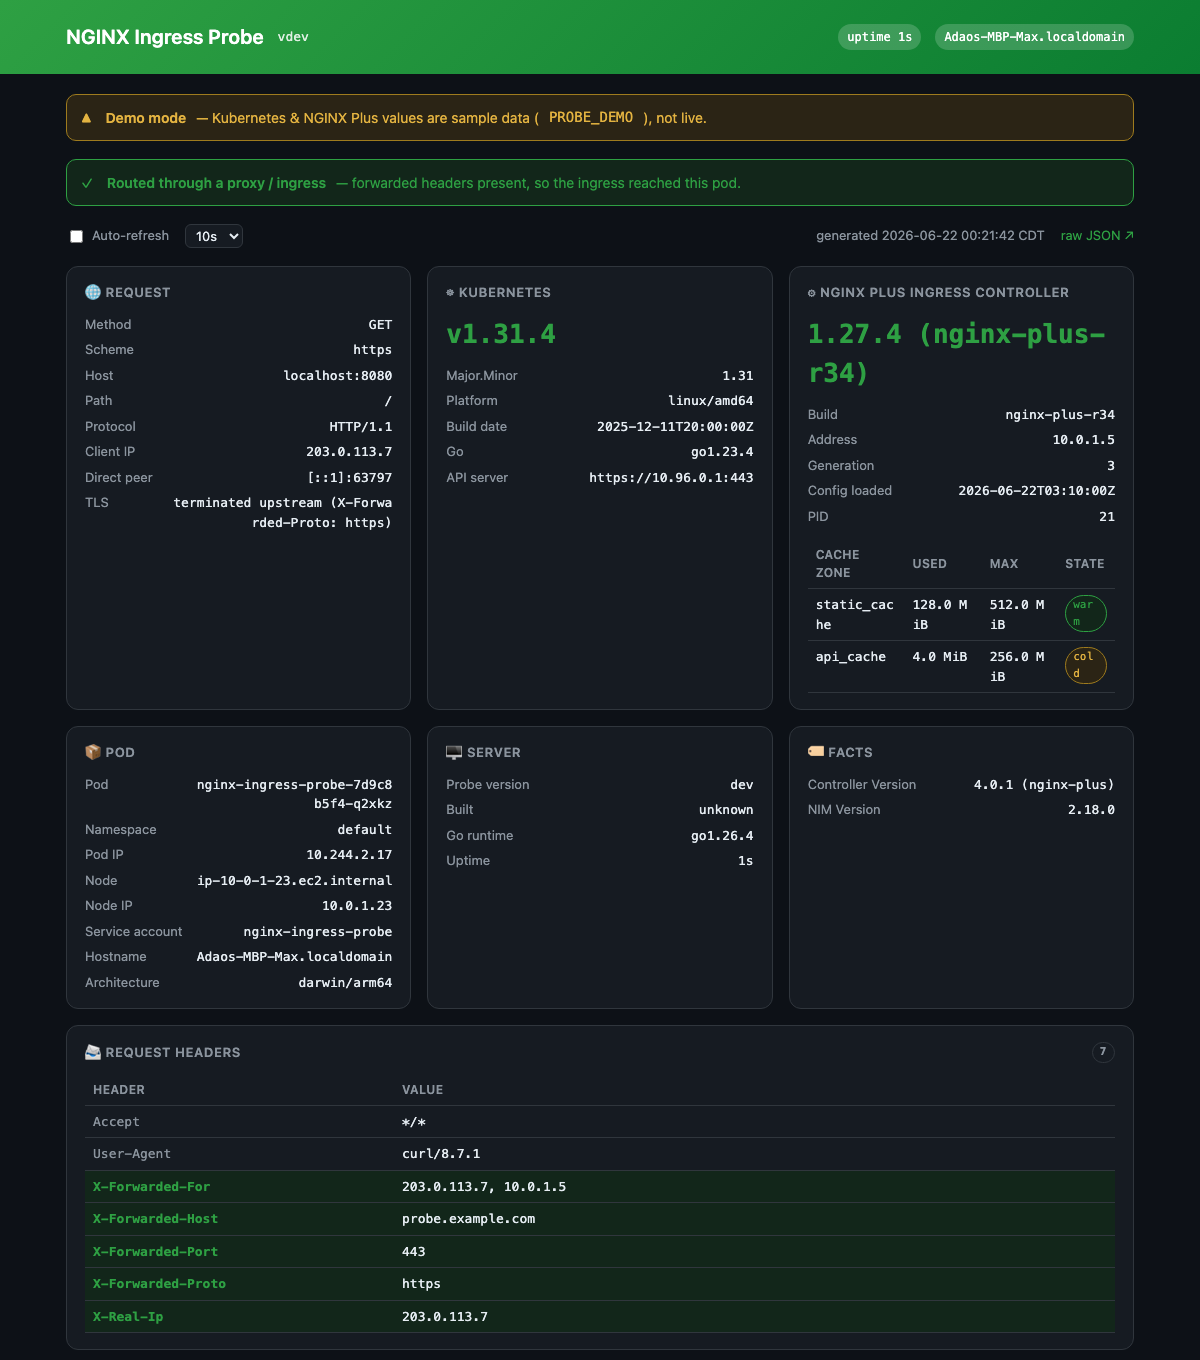
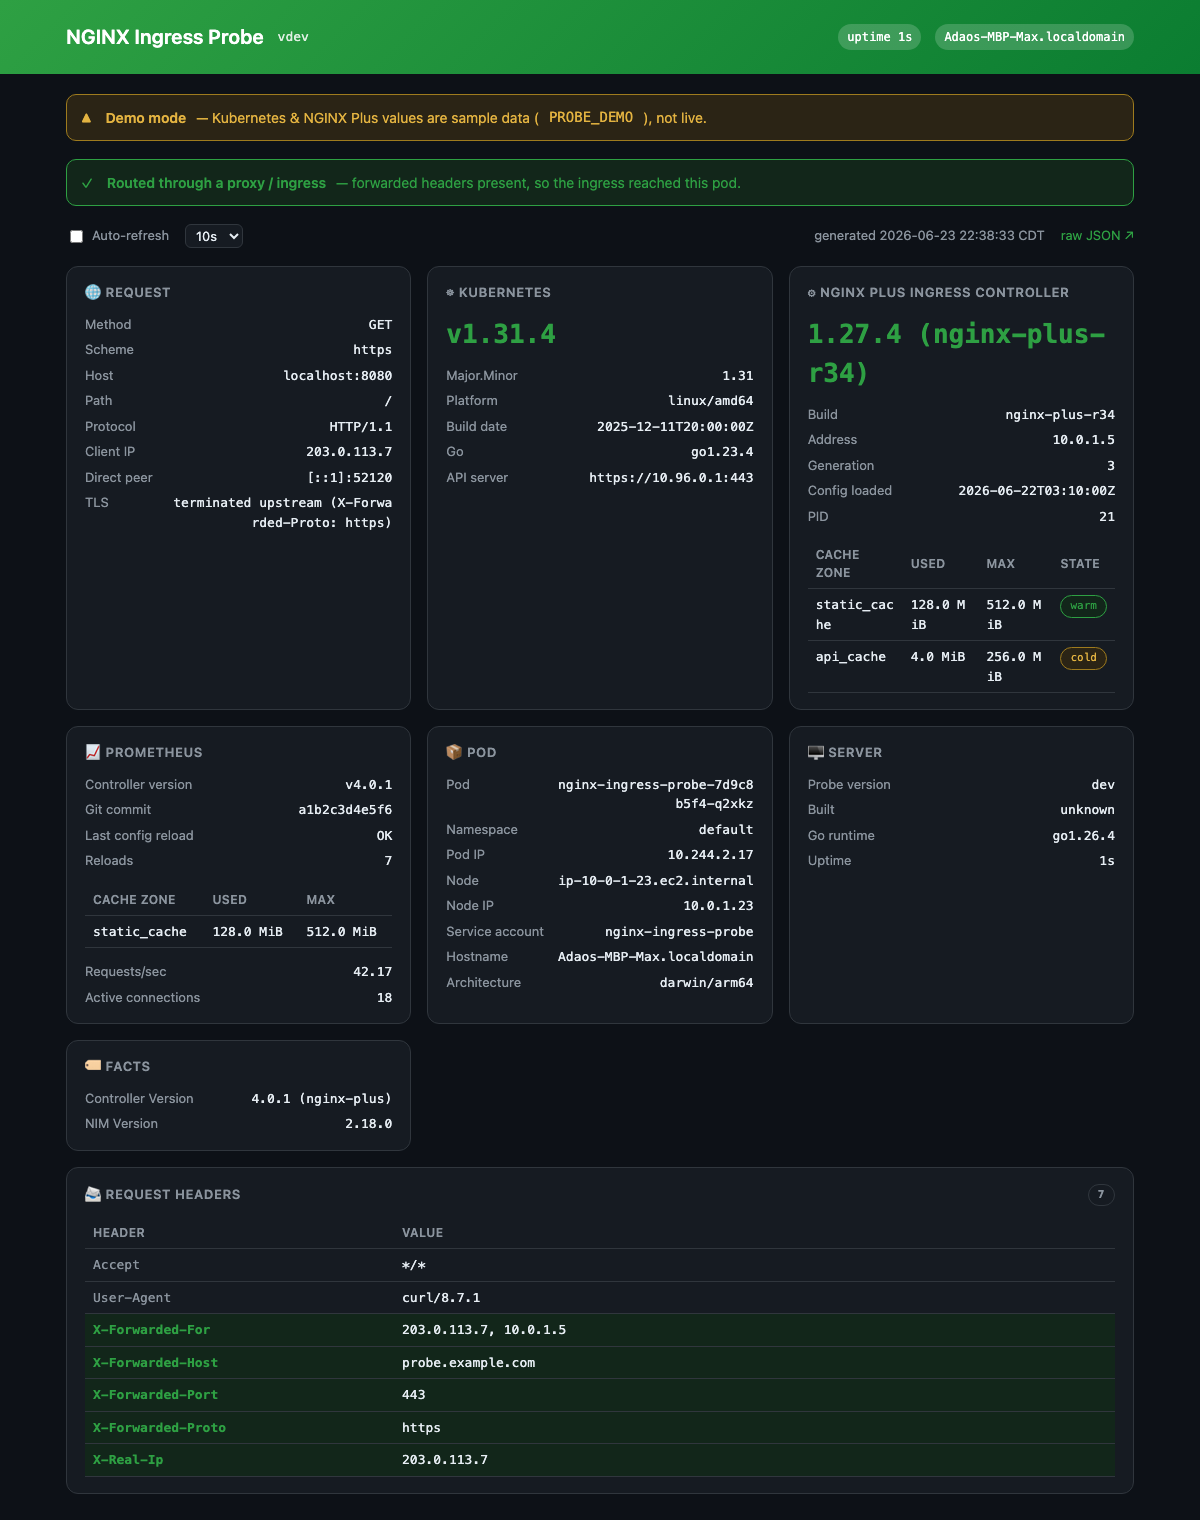
feat: add a Prometheus card; fix cache-state pill wrapping
- Prometheus card (optional PROMETHEUS_URL, no RBAC): controller version + git
  commit, last config-reload status, cache zone sizes, and request rate / connections
- cache-zone STATE pills (warm/cold) no longer wrap (white-space:nowrap + roomier padding)
- deployment + README document PROMETHEUS_URL / PROMETHEUS_TOKEN / PROMETHEUS_INSECURE
- refresh screenshot

diff --git a/templates/index.html b/templates/index.html
@@ -49,7 +49,8 @@
   td.v{font-family:var(--mono)}
   tr.fwd td.k{color:var(--accent);font-weight:600}
   tr.fwd{background:var(--accent-weak)}
-  .tag{display:inline-block;font-family:var(--mono);font-size:11px;padding:1px 7px;border-radius:999px;border:1px solid var(--border);color:var(--muted)}
+  .tag{display:inline-block;white-space:nowrap;font-family:var(--mono);font-size:11px;padding:2px 9px;border-radius:999px;border:1px solid var(--border);color:var(--muted)}
+  td.state{white-space:nowrap}
   .tag.cold{color:var(--warn-text);border-color:var(--warn-border);background:var(--warn-bg)}
   .tag.warm{color:var(--accent);border-color:var(--accent);background:var(--accent-weak)}
   footer{color:var(--muted);font-size:12px;margin-top:28px;text-align:center}
@@ -149,7 +150,7 @@
               <td class="v">{{.Name}}</td>
               <td class="v">{{.Size}}</td>
               <td class="v">{{.MaxSize}}</td>
-              <td>{{if .Cold}}<span class="tag cold">cold</span>{{else}}<span class="tag warm">warm</span>{{end}}</td>
+              <td class="state">{{if .Cold}}<span class="tag cold">cold</span>{{else}}<span class="tag warm">warm</span>{{end}}</td>
             </tr>
           {{end}}
           </tbody>
@@ -160,6 +161,39 @@
         {{end}}
       {{else}}
       <p class="muted">Set <code>NGINX_PLUS_API_URL</code> to the NGINX Plus Ingress Controller's API to show its nginx version, build, and cache zones here.</p>
+      {{end}}
+    </section>
+
+    <section class="card">
+      <h2>📈 Prometheus</h2>
+      {{if .Prom.Enabled}}
+        {{if .Prom.Error}}
+        <p class="muted">Query error.<br>{{.Prom.Error}}</p>
+        <p class="muted">Endpoint: {{.Prom.APIBase}}</p>
+        {{else if or .Prom.Controller .Prom.Caches .Prom.Traffic}}
+          {{if .Prom.Controller}}
+          <dl>
+            {{range .Prom.Controller}}<dt>{{.Name}}</dt><dd>{{.Value}}</dd>{{end}}
+          </dl>
+          {{end}}
+          {{if .Prom.Caches}}
+          <table style="margin-top:14px">
+            <thead><tr><th>Cache zone</th><th>Used</th><th>Max</th></tr></thead>
+            <tbody>
+            {{range .Prom.Caches}}<tr><td class="v">{{.Name}}</td><td class="v">{{.Size}}</td><td class="v">{{.MaxSize}}</td></tr>{{end}}
+            </tbody>
+          </table>
+          {{end}}
+          {{if .Prom.Traffic}}
+          <dl style="margin-top:14px">
+            {{range .Prom.Traffic}}<dt>{{.Name}}</dt><dd>{{.Value}}</dd>{{end}}
+          </dl>
+          {{end}}
+        {{else}}
+        <p class="muted">Connected, but none of the expected NGINX metrics are present — is the controller's <code>-enable-prometheus-metrics</code> on and scraped?</p>
+        {{end}}
+      {{else}}
+      <p class="muted">Set <code>PROMETHEUS_URL</code> to pull the controller's live metrics (version, reload status, caches, traffic) from Prometheus — no RBAC needed.</p>
       {{end}}
     </section>
 

diff --git a/main.go b/main.go
@@ -1,7 +1,7 @@
 // nginx-ingress-probe — a tiny diagnostics page to verify an NGINX (Plus) ingress
 // after an upgrade. Deploy it behind the ingress, open it, and it shows the request
 // the ingress forwarded, the Kubernetes version, and (optionally) the NGINX Plus API
-// data (version, build, cache zones). Single static binary, standard library only.
+// data and Prometheus metrics. Single static binary, standard library only.
 package main
 
 import (
@@ -15,6 +15,7 @@ import (
 	"log"
 	"net"
 	"net/http"
+	"net/url"
 	"os"
 	"runtime"
 	"sort"
@@ -48,6 +49,7 @@ type pageData struct {
 	Facts     []KV        `json:"facts"`
 	Kube      kubeInfo    `json:"kubernetes"`
 	Plus      plusInfo    `json:"nginx_plus"`
+	Prom      promInfo    `json:"prometheus"`
 	Demo      bool        `json:"demo"`
 	Generated string      `json:"generated"`
 }
@@ -99,6 +101,15 @@ type plusInfo struct {
 	Caches  []cacheZone `json:"caches"`
 }
 
+type promInfo struct {
+	Enabled    bool        `json:"enabled"`
+	Error      string      `json:"error,omitempty"`
+	APIBase    string      `json:"api_base,omitempty"`
+	Controller []KV        `json:"controller"`
+	Caches     []cacheZone `json:"caches"`
+	Traffic    []KV        `json:"traffic"`
+}
+
 type nginxStatus struct {
 	Version       string `json:"version"`
 	Build         string `json:"build"`
@@ -136,6 +147,7 @@ func collect(r *http.Request) pageData {
 		Facts:     collectFacts(),
 		Kube:      collectKube(ctx),
 		Plus:      collectPlus(ctx),
+		Prom:      collectProm(ctx),
 		Generated: time.Now().Format("2006-01-02 15:04:05 MST"),
 	}
 	if demoMode() {
@@ -312,6 +324,132 @@ func collectPlus(ctx context.Context) plusInfo {
 	return out
 }
 
+// collectProm pulls the controller's live metrics from Prometheus (no RBAC — the probe
+// is just a read-only HTTP consumer; Prometheus already did the scraping). Each row
+// renders only if its query returns data, so it degrades gracefully per-metric.
+func collectProm(ctx context.Context) promInfo {
+	base := strings.TrimRight(os.Getenv("PROMETHEUS_URL"), "/")
+	if base == "" {
+		return promInfo{Enabled: false}
+	}
+	out := promInfo{Enabled: true, APIBase: base}
+	client := &http.Client{Transport: &http.Transport{TLSClientConfig: &tls.Config{
+		InsecureSkipVerify: os.Getenv("PROMETHEUS_INSECURE") == "true", //nolint:gosec // opt-in for self-signed Prometheus
+		MinVersion:         tls.VersionTLS12,
+	}}}
+	token := os.Getenv("PROMETHEUS_TOKEN")
+	q := func(query string) []promSample {
+		rs, _ := promQuery(ctx, client, base, token, query)
+		return rs
+	}
+
+	// Build info doubles as the connectivity check — its error (not its emptiness) is surfaced.
+	rs, err := promQuery(ctx, client, base, token, "nginx_ingress_controller_build_info")
+	if err != nil {
+		out.Error = err.Error()
+		return out
+	}
+	if len(rs) > 0 {
+		m := rs[0].Metric
+		if v := m["version"]; v != "" {
+			out.Controller = append(out.Controller, KV{"Controller version", v})
+		}
+		if g := m["git_commit"]; g != "" {
+			if len(g) > 12 {
+				g = g[:12]
+			}
+			out.Controller = append(out.Controller, KV{"Git commit", g})
+		}
+	}
+	if rs := q("nginx_ingress_controller_nginx_last_reload_status"); len(rs) > 0 {
+		status := "failing"
+		if rs[0].Value == "1" {
+			status = "OK"
+		}
+		out.Controller = append(out.Controller, KV{"Last config reload", status})
+	}
+	if rs := q("sum(nginx_ingress_controller_nginx_reloads_total)"); len(rs) > 0 {
+		out.Controller = append(out.Controller, KV{"Reloads", promInt(rs[0].Value)})
+	}
+
+	sizes, maxes := map[string]int64{}, map[string]int64{}
+	for _, r := range q("nginxplus_cache_size") {
+		sizes[r.Metric["cache"]] = promBytes(r.Value)
+	}
+	for _, r := range q("nginxplus_cache_max_size") {
+		maxes[r.Metric["cache"]] = promBytes(r.Value)
+	}
+	zones := map[string]bool{}
+	for n := range sizes {
+		zones[n] = true
+	}
+	for n := range maxes {
+		zones[n] = true
+	}
+	names := make([]string, 0, len(zones))
+	for n := range zones {
+		names = append(names, n)
+	}
+	sort.Strings(names)
+	for _, n := range names {
+		out.Caches = append(out.Caches, cacheZone{Name: n, Size: humanBytes(sizes[n]), MaxSize: maxSize(maxes[n])})
+	}
+
+	if rs := q("sum(rate(nginxplus_http_requests_total[5m]))"); len(rs) > 0 {
+		out.Traffic = append(out.Traffic, KV{"Requests/sec", promFloat(rs[0].Value)})
+	}
+	if rs := q("sum(nginxplus_connections_active)"); len(rs) > 0 {
+		out.Traffic = append(out.Traffic, KV{"Active connections", promInt(rs[0].Value)})
+	}
+	return out
+}
+
+type promSample struct {
+	Metric map[string]string
+	Value  string
+}
+
+func promQuery(ctx context.Context, c *http.Client, base, token, query string) ([]promSample, error) {
+	req, _ := http.NewRequestWithContext(ctx, http.MethodGet, base+"/api/v1/query?query="+url.QueryEscape(query), nil)
+	req.Header.Set("Accept", "application/json")
+	if token != "" {
+		req.Header.Set("Authorization", "Bearer "+token)
+	}
+	resp, err := c.Do(req)
+	if err != nil {
+		return nil, err
+	}
+	defer resp.Body.Close()
+	if resp.StatusCode != http.StatusOK {
+		return nil, fmt.Errorf("Prometheus returned %s", resp.Status)
+	}
+	var body struct {
+		Status string `json:"status"`
+		Error  string `json:"error"`
+		Data   struct {
+			Result []struct {
+				Metric map[string]string `json:"metric"`
+				Value  []json.RawMessage `json:"value"`
+			} `json:"result"`
+		} `json:"data"`
+	}
+	if err := json.NewDecoder(resp.Body).Decode(&body); err != nil {
+		return nil, err
+	}
+	if body.Status != "success" {
+		return nil, fmt.Errorf("Prometheus query failed: %s", body.Error)
+	}
+	out := make([]promSample, 0, len(body.Data.Result))
+	for _, r := range body.Data.Result {
+		s := promSample{Metric: r.Metric}
+		if len(r.Value) == 2 {
+			_ = json.Unmarshal(r.Value[1], &s.Value)
+		}
+		out = append(out, s)
+	}
+	return out, nil
+}
+
 func demoMode() bool {
 	switch strings.ToLower(os.Getenv("PROBE_DEMO")) {
 	case "1", "true", "yes":
@@ -320,9 +458,8 @@ func demoMode() bool {
 	return false
 }
 
-// applyDemo fills sample Kubernetes / NGINX Plus values for local previews and
-// screenshots when there is no cluster. It is clearly flagged in the UI so it is
-// never mistaken for live data.
+// applyDemo fills sample values for local previews and screenshots when there is no
+// cluster. It is clearly flagged in the UI so it is never mistaken for live data.
 func applyDemo(d *pageData) {
 	d.Demo = true
 	if !d.Kube.Available {
@@ -342,6 +479,24 @@ func applyDemo(d *pageData) {
 			Caches: []cacheZone{
 				{Name: "static_cache", Size: "128.0 MiB", MaxSize: "512.0 MiB", Cold: false},
 				{Name: "api_cache", Size: "4.0 MiB", MaxSize: "256.0 MiB", Cold: true},
+			},
+		}
+	}
+	if !d.Prom.Enabled || d.Prom.Error != "" {
+		d.Prom = promInfo{
+			Enabled: true, APIBase: "http://prometheus-operated.monitoring.svc:9090 (demo)",
+			Controller: []KV{
+				{"Controller version", "v4.0.1"},
+				{"Git commit", "a1b2c3d4e5f6"},
+				{"Last config reload", "OK"},
+				{"Reloads", "7"},
+			},
+			Caches: []cacheZone{
+				{Name: "static_cache", Size: "128.0 MiB", MaxSize: "512.0 MiB"},
+			},
+			Traffic: []KV{
+				{"Requests/sec", "42.17"},
+				{"Active connections", "18"},
 			},
 		}
 	}
@@ -380,6 +535,21 @@ func maxSize(n int64) string {
 		return "unlimited"
 	}
 	return humanBytes(n)
+}
+
+// Prometheus values arrive as strings holding a float; these coerce them for display.
+func promBytes(s string) int64 { f, _ := strconv.ParseFloat(s, 64); return int64(f) }
+func promInt(s string) string {
+	f, _ := strconv.ParseFloat(s, 64)
+	return strconv.FormatInt(int64(f), 10)
+}
+
+func promFloat(s string) string {
+	f, err := strconv.ParseFloat(s, 64)
+	if err != nil {
+		return s
+	}
+	return strconv.FormatFloat(f, 'f', 2, 64)
 }
 
 func tlsVersion(v uint16) string {

diff --git a/README.md b/README.md
@@ -22,6 +22,9 @@ static Go binary, standard library only, distroless and non-root.
 - **NGINX Plus Ingress Controller** — set `NGINX_PLUS_API_URL` to the controller's NGINX Plus
   API and it pulls `/nginx` (nginx version, build, generation, PID) and `/http/caches` (cache
   zones: used vs. max, cold/warm). This is the data plane you just upgraded.
+- **Prometheus** — set `PROMETHEUS_URL` and it queries the controller's live metrics with **no
+  RBAC**: controller version + git commit, last config-reload status, cache zone sizes, and
+  request rate / active connections. Each row shows only if that metric is being scraped.
 - **Facts** — any `PROBE_FACT_*` env var, for things the data-plane API doesn't expose — the
   **controller (NIC) version**, **NGINX Instance Manager (NIM) version**, etc.
 
@@ -92,6 +95,8 @@ Point it at the controller's NGINX Plus API to see the upgraded nginx version + 
 | `PORT` | `8080` | listen port |
 | `NGINX_PLUS_API_URL` | — | the controller's NGINX Plus API base; enables the version + cache-zone card |
 | `NGINX_PLUS_API_INSECURE` | `false` | skip TLS verification for a self-signed Plus API |
+| `PROMETHEUS_URL` | — | Prometheus base URL; pulls the controller's live metrics (version, reload, caches, traffic) — no RBAC |
+| `PROMETHEUS_TOKEN` · `PROMETHEUS_INSECURE` | — | bearer auth / skip TLS verify for a secured Prometheus |
 | `PROBE_FACT_*` | — | each becomes a row in the **Facts** card (e.g. `PROBE_FACT_NIM_Version`) |
 | `PROBE_DEMO` | `false` | fill sample K8s / controller values for local previews (clearly flagged) |
 